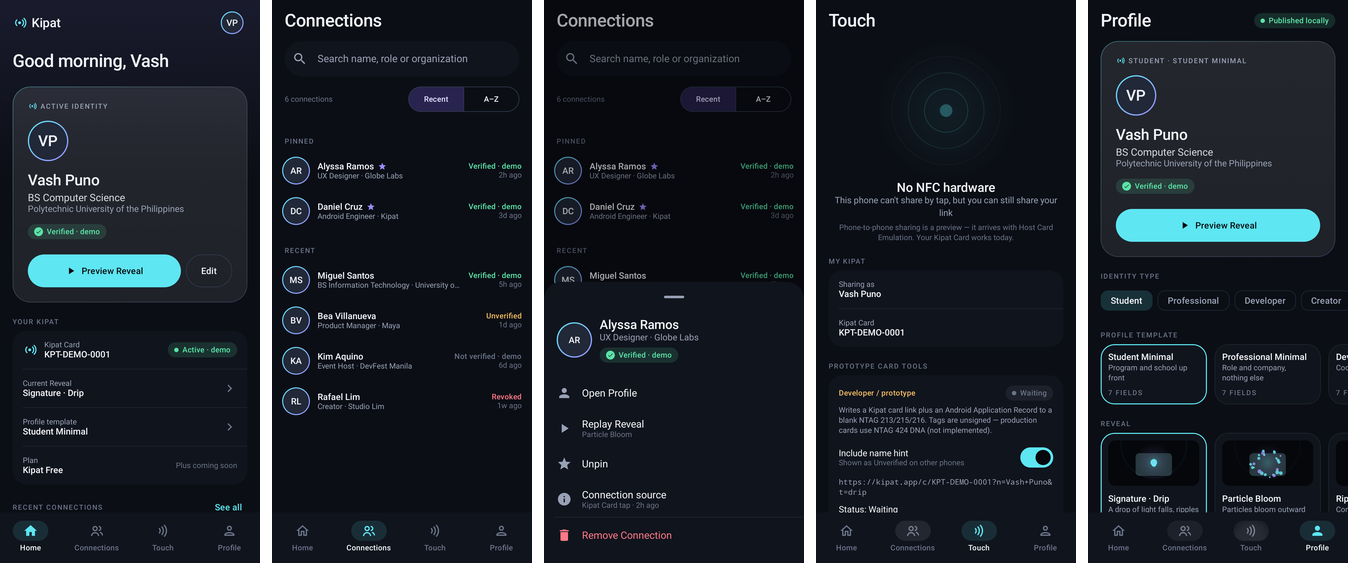
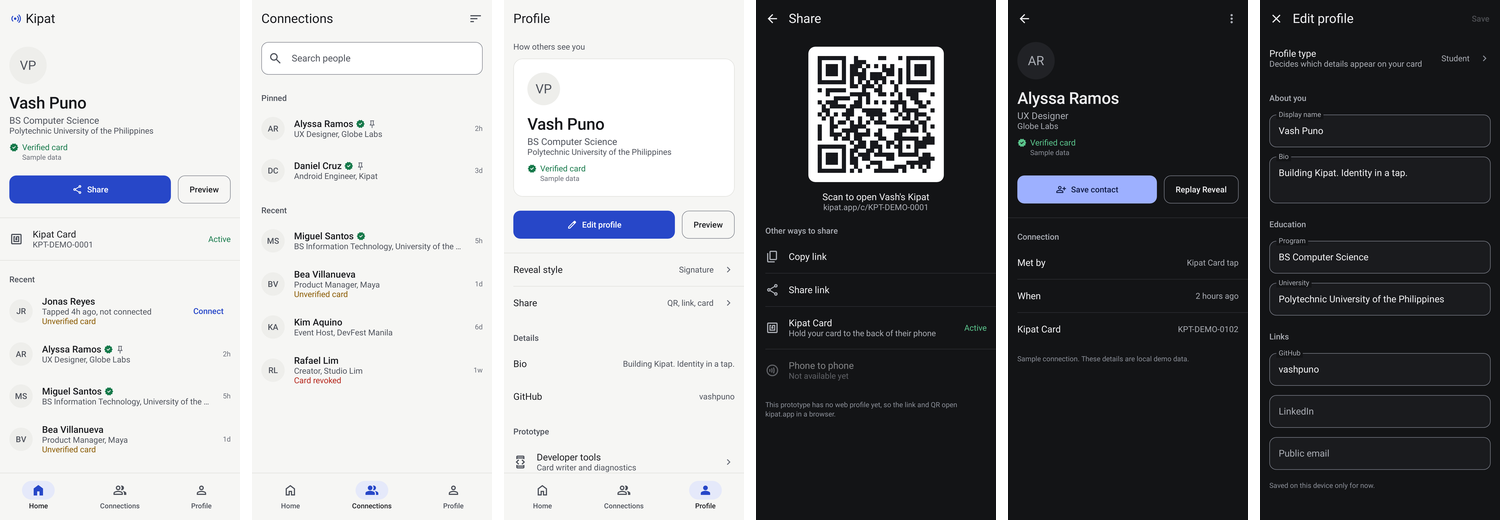
docs: document Quiet Graphite design system, rationale and post-redesign review
README, architecture, Reveal and NFC docs updated for the 3-tab shell,
Share screen, Developer tools and the v2 Reveal; foundation gains the
outline token; Kipat design skill updated; post-redesign audit added;
doc images regenerated from the new renders.

Claude-Session: https://claude.ai/code/session_014gtnW3oi4wPSe5yKbAtHfW

diff --git a/design/audit/post-redesign-review.md b/design/audit/post-redesign-review.md
@@ -1,0 +1,94 @@
+# Post-redesign review
+
+Reviewed build: this branch after the Quiet Graphite implementation. Evidence: Robolectric renders
+in light and dark (`docs/images/app-screens.png`, `docs/images/reveal-strip.png`), the code, and
+mechanical checks (no `uppercase()`, no `·` meta strings in UI, no `Brush`/blur/`BlendMode` in the
+shell, no raw colours or literal radii in screens, no `rememberInfiniteTransition`, a single icon
+family). Checklist: `.claude/skills/kipat-product-design/SKILL.md` → Review checklist.
+
+Ratings 1–5 (5 best).
+
+| Screen | Hierarchy | Clarity | Task speed | Low noise | Consistency | Professional | Distinctive | Android-native | Accessibility |
+|---|---|---|---|---|---|---|---|---|---|
+| Home | 5 | 5 | 5 | 5 | 5 | 5 | 3 | 5 | 4 |
+| Share | 5 | 5 | 5 | 5 | 5 | 5 | 3 | 5 | 4 |
+| Connections | 5 | 5 | 5 | 4 | 5 | 5 | 3 | 5 | 4 |
+| Person | 5 | 5 | 5 | 5 | 5 | 5 | 3 | 5 | 4 |
+| Profile (view) | 4 | 5 | 4 | 4 | 5 | 5 | 4 | 5 | 4 |
+| Edit profile | 4 | 5 | 4 | 5 | 5 | 5 | 3 | 5 | 4 |
+| Developer tools | 4 | 4 | 4 | 4 | 5 | 4 | 2 | 5 | 4 |
+| Reveal | 5 | 5 | 5 | 5 | 5 | 5 | 4 | 4 | 4 |
+
+## Against the principles
+
+1. **Identity is the hero.** The name is the largest type on Home, Person, Profile and the Reveal,
+   on the page or in the single recipient card. Pass.
+2. **One primary action.** Home → Share; Person → Save contact; Profile → Edit profile; Reveal →
+   Connect (or Done for unresolved cards); Share uses rows. Exactly one filled button per screen.
+   Pass.
+3. **Quiet shell, memorable Reveal.** No ambient motion in the shell (the beacon is gone); the
+   Reveal keeps one contact ring and one edge trace. Pass.
+4. **Type and spacing before containers.** The shell has one card (the Profile preview = what a
+   recipient sees). Everything else is rows and dividers. Pass.
+5. **Physical → digital.** The contact ring sits at the card's top edge and the cobalt line runs
+   from that point around the card, so the tap visibly *becomes* the identity. Pass.
+6. **Professional, not corporate.** No greeting, plan tile, metrics, "leads". Pass.
+7. **Trust looks calm.** Seal + "Verified card" in green; "Sample data" on its own tertiary line;
+   lists only show trust in words when it's abnormal. Pass.
+8. **Speed.** Tab fade 150 ms; Reveal settled at ~1.55 s (was 2.08 s), name readable from 850 ms.
+   No network before the first frame. Pass (device timing not measured).
+9. **Native beats web.** One-tap Save contact via ACTION_INSERT; Reveal over the previous app.
+   Pass.
+10. **Honest UI.** Phone-to-phone shown as "Not available yet"; the Share screen says links open
+    kipat.app in a browser; "Open profile" only appears when there is a profile to open. Pass.
+
+## Against the references
+
+- **Linear** (chrome recedes, structure felt not seen): bars use the page background, one 1 dp
+  divider above the nav bar, section headings in secondary colour. Matches.
+- **Raycast** (primary on tap, rest contextual): Connections row tap opens the person; Pin/Remove
+  live in long-press and the overflow menu; sort moved into a menu. Matches.
+- **Android/M3**: 3-destination nav bar, small top app bars, two-line list items with leading
+  avatar and trailing time, full-screen edit with Save/close and discard dialog, system
+  Sharesheet, 48 dp targets, edge-to-edge insets. Matches.
+- **Competitors**: identity before any form; no upsell or acquisition prompt; native contact save.
+
+## Does this still look like AI-generated UI?
+
+**Mostly no.** Specific checks:
+
+| Earlier tell | Now |
+|---|---|
+| Cyan/violet on blue-black, glow, glass, gradients | Neutral graphite/paper + one cobalt; none of the effects remain in the shell |
+| Tracked ALL-CAPS eyebrows, `A · B` meta strings | Sentence-case headings above lists only; comma-joined plain text |
+| Card kit, 28 dp radii, pill buttons | One card; 12 dp buttons; radius by role |
+| Greeting dashboard, feature tiles | Removed |
+| Particle/energy Reveal | Ring + line + opaque card |
+
+Remaining risks and what was done:
+
+- *Generic clean-neutral convergence.* Distinctiveness now rests on the identity typesetting, the
+  cobalt contact line and the Reveal. That's deliberate (principle 3) but the shell's
+  distinctiveness scores stay at 3. **Attention:** a real Kipat mark and a photo avatar will
+  carry identity further than any decoration should.
+- *Em dashes in copy* were removed from UI strings and sample data (a generated-copy tell).
+- *The 600 ms Reveal frame* shows the card mid-fade as a grey slab against the scrim; it lasts
+  ≈ 100 ms of a 300 ms fade. Acceptable, but **watch on device**.
+
+## Accessibility notes
+
+- All text pairs ≥ 4.5:1 and interactive outlines ≥ 3:1 (measured, see foundation.md).
+- State is never colour-only: trust, card state and write status are words.
+- TalkBack: trust line reads "Authenticity: Verified card. …"; icon-only buttons have
+  descriptions; avatars describe themselves; identity text is in the Reveal's layout from the
+  first frame (alpha only).
+- Font scale: no fixed-height text containers; rows use `heightIn(min = …)`.
+- Reduced motion: unchanged path (single 200 ms fade, all content visible).
+- **Not verified here:** 1.3×/2× font scale screenshots and TalkBack traversal on a device.
+
+## Still needs attention
+
+1. Real photo avatars / logo upload (the avatar API accepts a URI; rendering is initials only).
+2. Persistence: edits and connections are in-memory.
+3. On-device Reveal review over bright and busy apps (scrim strength 55% → 82%).
+4. A finalized Kipat mark.

diff --git a/README.md b/README.md
@@ -15,12 +15,14 @@ migrated, not discarded.
 
 | Area | Status |
 |---|---|
-| 4-tab shell (Home, Connections, Touch, Profile) | Working — Compose + Material 3, edge-to-edge, per-tab state saved/restored, dark & light |
+| 3-tab shell (Home, Connections, Profile) + Share | Working — Quiet Graphite design system, Compose + Material 3, edge-to-edge, per-tab state saved/restored, light & dark |
 | Reveal (`TapExperienceActivity`) | Working — translucent, own task, dynamic payload, 10-template catalog (3 fully choreographed), reduced-motion and low-end fallbacks |
 | Preview / Replay Reveal | Working — Home, Profile and Connections launch the same renderer |
 | Debug deep link `kipatprobe://tap/…` | Working — routes into the Reveal |
 | Kipat Card NFC tap → Reveal | Implemented (NDEF filter + parser + resolver); **not yet tested on a physical device** |
-| Prototype NTAG writer | Migrated into Touch → Prototype Card Tools; **not yet re-tested on hardware** after migration |
+| Share screen (QR, copy link, system share, card state) | Working; links point to kipat.app, which has **no web profile yet** |
+| Save contact | Working — one tap into Android Contacts (ACTION_INSERT), no .vcf |
+| Prototype NTAG writer | Profile → Developer tools; **not yet re-tested on hardware** after migration |
 | Connections, taps, profile publishing | **Local demo data, in memory** — resets when the process dies |
 | Authenticity / verification | **Not implemented.** Sample data shows "Verified · demo"; tag-supplied names show "Unverified" |
 | Kipat Plus, billing, backend, NTAG 424, HCE phone-to-phone | Not implemented (placeholders only) |
@@ -52,14 +54,14 @@ adb shell am start -W -a android.intent.action.VIEW \
 adb logcat -s KipatReveal                                                            # timing markers
 ```
 
-Touch → Developer diagnostics has the same triggers as buttons. See [`docs/reveal.md`](docs/reveal.md).
+Profile → Developer tools → *Test the Reveal* has the same triggers as buttons. See [`docs/reveal.md`](docs/reveal.md).
 
 ## Prototype NFC tag writing
 
-Touch → **Prototype Card Tools** → *Arm Tag Write*, then hold a blank NTAG 213/215/216 to the
+Profile → **Developer tools** → *Write to tag*, then hold a blank NTAG 213/215/216 to the
 phone. It writes `https://kipat.app/c/<cardId>[?n=<name>&t=<template>]` plus an Android
 Application Record. Tapping that tag on a phone with Kipat installed opens the Reveal.
-Foreground dispatch is only active while armed on the Touch screen. Details: [`docs/nfc.md`](docs/nfc.md).
+Foreground dispatch is only active while a write is armed on the Developer tools screen. Details: [`docs/nfc.md`](docs/nfc.md).
 
 ## Architecture
 
@@ -69,7 +71,7 @@ app/src/main/java/com/kipat/probe/
   TapExperienceActivity.kt   translucent Reveal host (NFC, deep link, preview, replay)
   navigation/                tabs + NavHost
   ui/theme, ui/components    design tokens and shared components
-  ui/screens/{home,connections,touch,profile}
+  ui/screens/{home,share,connections,profile,developer}
   reveal/                    payload, catalog, timeline engine, RevealScreen, effects/
   nfc/                       URI parser, tag writer, write controller
   model/, data/              domain models, in-memory repository, resolver
@@ -77,12 +79,21 @@ app/src/main/java/com/kipat/probe/
 
 More: [`docs/architecture.md`](docs/architecture.md).
 
+## Design
+
+Kipat's design rationale and rules live in `design/`: research (`research/reference-matrix.md`),
+audit, principles (`KIPAT_DESIGN_PRINCIPLES.md`), the token foundation (`system/foundation.md`),
+the chosen direction (*Quiet Graphite*) and the post-redesign review. Future sessions should
+follow `.claude/skills/kipat-product-design/SKILL.md`.
+
 ## Design references (Higgsfield)
 
 [`design/higgsfield/`](design/higgsfield/) holds the brief, exact prompts, the credit-guarded
-script, the generated reference stills (2 keyframes + one 4 s Seedance clip, 4 credits) and what
-was adopted or rejected. Two ideas from the clip — a progressive scrim and a card-outline trace —
-are now in the native Signature Reveal. Higgsfield output is art direction only, never the runtime.
+script and critiques for two rounds. v1 (4 credits) was rejected as generic AI concept art. v2
+(4 credits) was generated only after the design direction was chosen, with text-free geometric
+prompts: a Quiet Graphite card board (adopted), an Editorial board (backup, not adopted) and a
+Reveal motion reference whose contact ring, symmetric edge trace and name wipe are now native.
+Higgsfield output is art direction only, never the runtime.
 
 ## Known limitation: backdrop varies by device
 

diff --git a/docs/reveal.md b/docs/reveal.md
@@ -3,7 +3,7 @@
 One renderer (`RevealScreen`) serves every entry point: NFC tag, debug deep link, Preview
 (Home/Profile) and Replay (Connections).
 
-![Signature Reveal frames — 150, 350, 700, 1050, 1600 ms and settled (Robolectric renders of the Compose runtime)](images/reveal-strip.png)
+![Signature Reveal frames — 120, 400, 600, 900, 1150 ms and settled, light theme (Robolectric renders of the Compose runtime)](images/reveal-strip.png)
 
 *Frames above are JVM (Robolectric) renders of the real Compose code, not Higgsfield output and
 not device captures.*
@@ -27,33 +27,41 @@ primary/secondary CTA labels, connectable.
 
 | Template | Implementation |
 |---|---|
-| Signature · Drip | **Full** — glow, 2 ripples, drip bead, 44 converging particles, soft outline trace, rise entrance |
-| Particle Bloom | **Full** — outward bloom settling into a halo |
-| Minimal Fade | **Full** — fast fade timeline, no particles |
+| Signature (default) | **Full** — one contact ring at the card's top edge, a cobalt line tracing the card from that point down both sides, opaque card (opacity + 0.98→1), name clip-reveal. No particles, glow or drip |
+| Particle Bloom | **Full** — opt-in; dots spread out and settle around the card |
+| Minimal | **Full** — quick quiet fade, no effects |
 | Ripple, Orbit, Soft Glow, Liquid Logo, Line Trace, Pixel Build, Constellation | Parameterised on the same primitives (`RevealConfig`) |
 
 All templates share `effects/RevealEffects.kt`; there are no per-template engines.
 
 ## Timeline (product targets, not measurements)
 
+Signature v2 (derived from `design/higgsfield/critique-v2.md`):
+
 | ms | Beat |
 |---|---|
-| 0 | first frame: scrim (60%, deepening as the card resolves), glow, ripple; start haptic |
-| 200 | glow peak, particles begin |
-| 600 | card surface + avatar |
-| 900 | name |
-| 1200 | role / organization |
-| 1500 | authenticity badge (verified haptic only if AUTHENTIC) |
-| 1800 | CTAs ready |
+| 0 | first frame: scrim fades to 55%; contact ring at the card's top edge; start haptic |
+| 300–650 | edge trace runs from the contact point down both sides |
+| 500–800 | card surface resolves; scrim deepens to 82% |
+| 700 | avatar |
+| 850 | name (left-to-right clip reveal) |
+| 950 | role / organisation |
+| 1100 | trust line (verified haptic only if AUTHENTIC) |
+| 1250 | actions; settled at 1550 |
+
+Actions: **Connect** (primary; "Done" for an unresolved card), **Save contact** (Android contact
+editor via ACTION_INSERT), **Open profile** (only when there is a Kipat profile to open: an
+existing connection or your own preview). The card follows the system light/dark theme; the
+scrim is always graphite.
 
 The spec's "0–100 ms activity launch" target is **not** claimed. The earlier OPPO probe measured
 ~190 ms warm launch; nothing has been measured on a device for this build.
 
 ## Fallbacks
 
-- **Reduced motion** (`ValueAnimator.areAnimatorsEnabled() == false`): no particles/ripples,
+- **Reduced motion** (`ValueAnimator.areAnimatorsEnabled() == false`): no ring/trace/particles,
   one 200 ms fade, everything readable immediately.
-- **Low-end** (low-RAM flag or ≤ 4 cores): ≤ 12 particles, 1 ripple, dimmer glow.
+- **Low-end** (low-RAM flag or ≤ 4 cores): ≤ 12 particles and 1 ripple for templates that use them (Signature has neither).
 - Rotation: elapsed time is saved, the Reveal resumes rather than replays.
 - Home/app switch: activity finishes in `onStop`.
 - Duplicate NFC scan of the same card within 1.5 s: ignored.
@@ -64,7 +72,7 @@ The spec's "0–100 ms activity launch" target is **not** claimed. The earlier O
 
 `RevealTrace` logs to `KipatReveal` and emits `android.os.Trace` sections:
 `activity_create` (with `launch→create` for in-app launches), `content_set`, `first_frame`,
-`first_reveal_visual`, `reveal_complete`. Touch → Developer diagnostics lists this session's
+`first_reveal_visual`, `reveal_complete`. Profile → Developer tools lists this session's
 measurements. Use Perfetto on real devices for authoritative numbers.
 
 ## Smoke tests

diff --git a/.claude/skills/kipat-product-design/SKILL.md b/.claude/skills/kipat-product-design/SKILL.md
@@ -40,7 +40,7 @@ Exactly one filled button per context. Everything else: text button, row, or ove
 
 ## Visual rules
 
-- **Color:** neutral 90–95%. Light bg #F6F6F4, text #17181C/#4E525B/#6A6E78; dark bg #131416, text #EDEDEF/#A9ACB3/#8B8F98. One accent: cobalt ink #2747C8 (light) / #9DB0FF (dark) — for Share, selected nav, links, the Reveal contact line. Status: verified #16794A/#5BC48C, warning #8A5A00/#E0A645, revoked #B42318/#F2766B. Every text pair ≥ 4.5:1 (measured).
+- **Color:** neutral 90–95%. Light bg #F6F6F4, text #17181C/#4E525B/#6A6E78; dark bg #131416, text #EDEDEF/#A9ACB3/#8B8F98. One accent: cobalt ink #2747C8 (light) / #9DB0FF (dark) — for Share, selected nav, links, the Reveal contact line. Status: verified #16794A/#5BC48C, warning #8A5A00/#E0A645, revoked #B42318/#F2766B. Dividers #E2E2DE/#2B2C30 (decorative); outlines of buttons/fields #8A8D95/#737680 (≥ 3:1). Every text pair ≥ 4.5:1 (measured).
 - **Type:** system sans, weights 400 & 500 only, sentence case. Identity name 28 sp/500 is the largest type in the shell. App bar title 22 sp. Row title 16/500. Section heading 14/500 secondary, only above a list.
 - **Spacing:** 4 · 8 · 12 · 16 · 20 · 24 · 32 · 40. Gutter 16. Rows ≥ 56 dp (one-line) / 72 dp (two-line). Targets ≥ 48 dp.
 - **Radius:** 8 chips, 12 buttons/inputs/QR frame, 16 recipient card & Reveal card, 20 dialogs/sheets. Buttons are not pills. Avatars and status chips are round.
@@ -50,7 +50,7 @@ Exactly one filled button per context. Everything else: text button, row, or ove
 ## Motion rules
 
 - Shell: tab fade ≤ 150 ms, push/pop 250 ms; no ambient or decorative motion.
-- Reveal: contact ring at the antenna point (0–300 ms) → scrim deepens → cobalt hairline traces the card edge from the top centre outward → card resolves (opacity + 0.98→1) → avatar → name → lines → trust → actions; settled ≈ 1.55 s. **No particles, glow, drip, gradients or bloom in the Signature Reveal.**
+- Reveal: contact ring at the card's top edge (0–300 ms) → scrim deepens → cobalt hairline traces the card edge from the top centre outward → card resolves (opacity + 0.98→1, 500–800 ms) → avatar 700 → name 850 (clip-reveal) → lines 950 → trust 1100 → actions 1250; settled 1550 ms. **No particles, glow, drip, gradients or bloom in the Signature Reveal.**
 - Reduced motion (`ValueAnimator.areAnimatorsEnabled() == false`): one 200 ms fade; all content readable immediately.
 
 ## NFC Reveal rules
@@ -58,7 +58,8 @@ Exactly one filled button per context. Everything else: text button, row, or ove
 - Own task (`taskAffinity=""`), translucent, edge-to-edge; the real previous app shows through. Never draw a fake app behind it.
 - Card is opaque (`surfaceElevated`) for legibility over any app; 16 dp radius; follows system light/dark. Scrim is always dark.
 - Order of information: avatar, name, role, organisation, trust line, actions. Identity text is in the layout from frame one (alpha only) for TalkBack.
-- Actions: Connect (primary, when connectable), Save contact (Android ACTION_INSERT — one tap, no .vcf), Open profile. A close button is always present. No "tap outside" hint text.
+- Actions: Connect (primary; "Done" for an unresolved card), Save contact (Android ACTION_INSERT, one tap, no .vcf), Open profile only when there is a Kipat profile to open. A close button is always present. No "tap outside" hint text.
+- Never record a tap of your own card as someone you met; never turn a tap into a connection without an explicit Connect.
 - No network before the first frame. Haptic on first frame; a second, calm haptic only when the card is verified.
 - Demo/sample data says "Sample data" on its own line. Debug sources are not shown in the card.
 

diff --git a/docs/architecture.md b/docs/architecture.md
@@ -29,15 +29,17 @@ The Android-free layers are what the JVM unit tests cover.
 
 ## Navigation
 
-Four tabs via Navigation Compose string routes (`home`, `connections`, `touch`, `profile`) plus
-`connection/{connectionId}`. Tab switches use `popUpTo(start){saveState}` + `restoreState` +
-`launchSingleTop`, so each tab keeps its scroll/search/editor state; re-tapping the active tab
-pops to its root; Back from any tab returns to Home, then exits.
+Three tabs via Navigation Compose string routes (`home`, `connections`, `profile`) plus pushed
+routes `share`, `person/{connectionId}`, `profile/edit`, `profile/reveal-style` and
+`profile/developer` (see `design/research/navigation-decision.md`). Tab switches use `popUpTo(start){saveState}` + `restoreState` +
+`launchSingleTop`, so each tab keeps its scroll/search state; re-tapping the active tab pops to its
+root; Back from any tab returns to Home, then exits. The navigation bar shows on tab roots only.
+Edit profile asks before discarding unsaved changes.
 
 ## State
 
 `KipatRepository` exposes `StateFlow`s (identity, card, entitlement, connections, recent taps,
-Reveal timings). Screens collect with `collectAsStateWithLifecycle`. Only Profile uses a
+Reveal timings). Screens collect with `collectAsStateWithLifecycle`. Only Edit profile uses a
 `ViewModel` (the editable draft must survive configuration changes). Everything is in memory —
 persistence (Room/DataStore) and a backend are the planned replacements behind the same object.
 
@@ -46,10 +48,12 @@ created by the explicit *Connect* action.
 
 ## Design system
 
-`ui/theme`: colour palette + semantic `KipatColors` (accent, glass, authentic/pending/warning/
-revoked/inactive), `RevealPalette` per Reveal theme, type scale (all `sp`), `KipatSpacing`,
-`KipatRadius`, `KipatMotion` (durations + easing). Components read tokens; screens avoid raw
-constants. Dark and light schemes are both defined; the Reveal is always dark.
+Quiet Graphite (`design/system/foundation.md`). `ui/theme`: neutral palette + one cobalt accent as
+semantic `KipatColors`, `RevealPalette` (graphite scrim, accent per Reveal accent choice, card
+following the system theme), type scale (system sans, 400/500), spacing 4–40, radius by role
+(8/12/16/20), shell motion. `ui/components`: `IdentityBlock`, `RecipientCard`, `TrustLine`,
+`PersonRow`, `ActionRow`, `OptionRow`, buttons, top bar, and `KipatSymbols` (Material Symbols
+Outlined, the only icon family). Compose previews live in `ui/preview/`.
 
 ## Extension points (not implemented)
 
@@ -57,4 +61,4 @@ constants. Dark and light schemes are both defined; the Reveal is always dark.
   / NTAG 424 SUN check without blocking the first visual.
 - Billing: `Entitlement` + `RevealTemplateId.requiresPlus` are modelled; nothing is gated yet.
 - Designer-authored Rive/Lottie Reveals: add a template whose renderer swaps the Canvas layer,
-  keeping the same `KipatIdentityCard` for dynamic text.
+  keeping the same `IdentityBlock` for dynamic text.

diff --git a/docs/nfc.md b/docs/nfc.md
@@ -26,7 +26,7 @@ Card IDs must match `[A-Za-z0-9_-]{1,64}`; anything else becomes an unresolved c
 `autoVerify`, because no `assetlinks.json` is deployed. Browser links to kipat.app therefore open
 the browser. NFC dispatch works regardless.
 
-## Writing: prototype cards (Touch → Prototype Card Tools)
+## Writing: prototype cards (Profile → Developer tools)
 
 Migrated from the original `MainActivity.java`:
 
@@ -38,7 +38,7 @@ Migrated from the original `MainActivity.java`:
 Changed:
 
 - Foreground dispatch is enabled **only while armed** and resumed (the probe enabled it on every
-  resume, which swallowed all tags while the app was open). Leaving the Touch tab disarms.
+  resume, which swallowed all tags while the app was open). Leaving the Developer tools screen disarms.
 - Writes run on `Dispatchers.IO` instead of the main thread.
 - Typed results: read-only, insufficient capacity, tag lost, unsupported, format failed, I/O,
   NFC off, no NFC. Errors keep the writer armed for a retry (as before); success disarms.

diff --git a/design/system/foundation.md b/design/system/foundation.md
@@ -30,6 +30,7 @@ so a person's Kipat always looks like Kipat. It carries meaning: it marks *the a
 | textSecondary | #4E525B | #A9ACB3 | Roles, supporting lines |
 | textTertiary | #6A6E78 | #8B8F98 | Timestamps, hints |
 | divider | #E2E2DE | #2B2C30 | 1 dp rules (decorative, non-text) |
+| outline | #8A8D95 | #737680 | Secondary-button and field borders (≥ 3:1 non-text) |
 | accent | #2747C8 | #9DB0FF | Share button, selected tab, links, contact line |
 | onAccent | #FFFFFF | #0F1A45 | Text on accent |
 | accentContainer | #E5E9FA | #222B4D | Selected nav indicator, selected option |
@@ -53,6 +54,7 @@ Share of accent on any screen ≤ 10% of pixels.
 | verified / background | 5.02 | 8.53 |
 | warning / background | 5.48 | 8.52 |
 | revoked / background | 6.08 | 6.65 |
+| outline / surface (non-text, needs 3:1) | 3.32 | 3.29 (on elevated) |
 
 ## Typography
 

diff --git a/design/higgsfield/README.md b/design/higgsfield/README.md
@@ -1,5 +1,10 @@
 # Higgsfield art direction — Kipat Signature Reveal
 
+> **v2 (current):** see `critique-v2.md` and `prompts/`. v2 was generated only after research and
+> direction selection, for card material and Reveal motion only, with text-free geometric prompts.
+> The v1 material below is kept as history; its visual direction (glass, cyan/violet, glow) was
+> rejected in the redesign.
+
 Higgsfield is used for **visual/motion reference only**. The shipped Reveal is native Compose
 (`app/src/main/java/com/kipat/probe/reveal/`) driven by a dynamic `RevealPayload`. No
 Higgsfield output is bundled in the APK, and the generated video is not committed.
